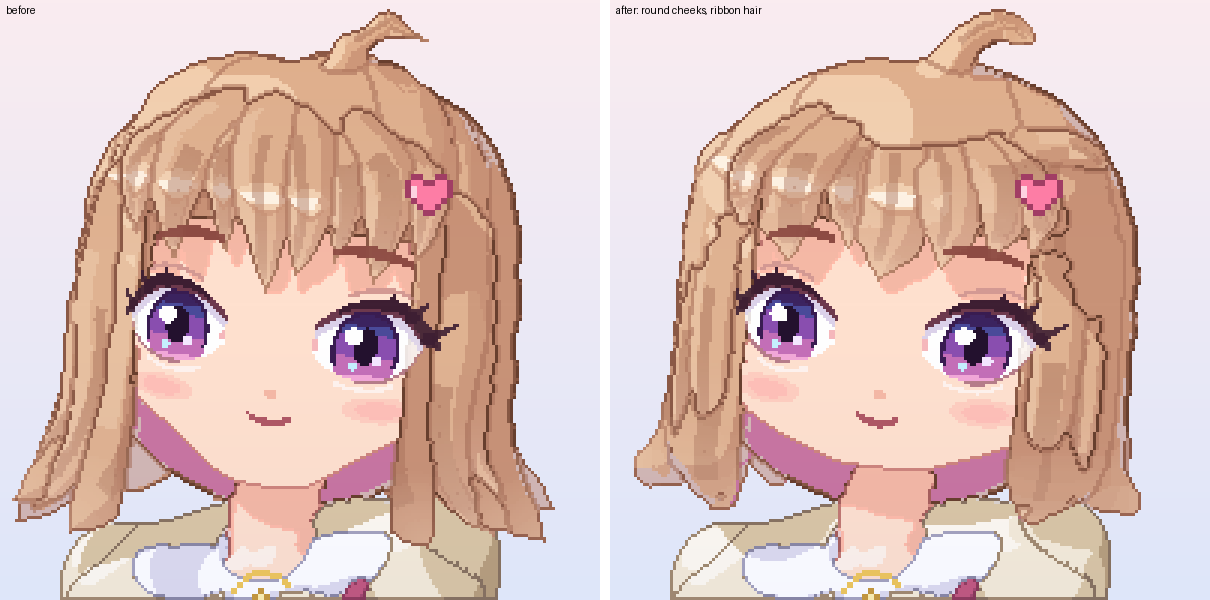
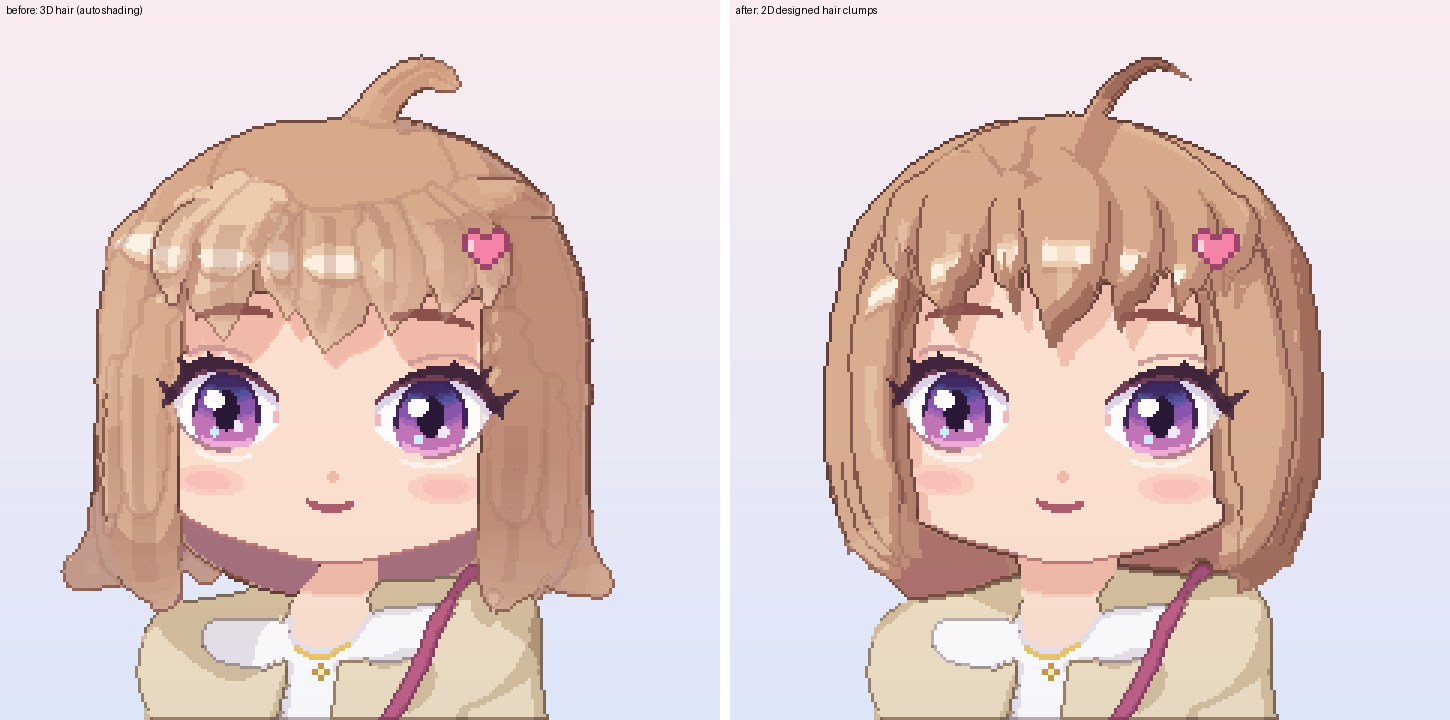
HD: round-4 critique fixes, regenerated outputs, honest assessment in docs
- Narrower bob and taller crown, lighter crown face, ahoge root blended
- Shorter round chin, darker jaw line, hands with 3-step shading and thumb
  lines, no knee blush, smoother legs and matching socks, lower shoe opening
  with a lighter sole, contact shadows under both shoes, no dashed rim light
  on clothes, narrower necklines with a tee rib, skirt side and hem shadows
- Regenerated mio_hd outputs, face close-up, idle GIF and comparisons
- docs/15 15-16: critique score history and remaining work

Claude-Session: https://claude.ai/code/session_015jm7LntmaSVAPPtmN3r4zX

diff --git a/pixel_art_character/character/draw_mio_hd.py b/pixel_art_character/character/draw_mio_hd.py
@@ -154,15 +154,15 @@ def face_prims_hd(P):
     out = [
         E((0, 17.5, -1.0), (13.9, 13.3, 13.3), "cranium"),
         E((0, 10.2, 2.6), (12.6, 7.3, 9.8), "cheek"),
-        E((0, 3.9 + CHIN_UP, 5.5), (3.7, 2.7, 3.0), "chin"),      # 顎先は細めの丸（幅広だと平らな盾形に見えた）
+        E((0, 3.9 + CHIN_UP, 5.5), (3.0, 2.6, 3.0), "chin"),      # 顎先は細めの丸（幅広だと平らな盾形に見えた）
     ]
     for s in (-1, 1):
         out.append(E((s * 6.9, 7.6, 6.0), (4.8 * CHEEK_PUFF, 3.9 * CHEEK_PUFF, 4.4), "cheek_puff"))   # 頬のふくらみ
-        out.append(B.RoundCone(L(s * 9.6, 8.4, 2.8), L(s * 2.6, 3.9 + CHIN_UP, 5.4), 3.4, 3.0, "jaw"))
+        out.append(B.RoundCone(L(s * 9.6, 8.6, 2.8), L(s * 1.8, 3.9 + CHIN_UP, 5.4), 3.4, 2.8, "jaw"))
     return out
 
 
-CHIN_UP = 0.9        # 顎先を上げる量（口から顎までを短く＝幼く）
+CHIN_UP = 1.5        # 顎先を上げる量（口から顎までを短く＝幼く）
 CHEEK_PUFF = 1.0     # 頬のふくらみの大きさ
 
 
@@ -317,13 +317,14 @@ def render_base(bob=0.0):
     B.HEAD_SCALE, B.BODY_SCALE = HD_HEAD_SCALE, HD_BODY_SCALE
     B.HEAD_TILT = math.radians(HD_HEAD_TILT)
     B.HEAD_YAW = math.radians(HD_HEAD_YAW)     # 顔をもう少し正面へ（左右の目の大きさの差が歪みに見えないように）   # 首かしげは控えめに（左右の目の高さの差が「歪み」に見えないように）   # 4.5 頭身（v8 の 5.0 から下げる：docs/15 15-12）
-    B.TEE_NECK, B.CARD_NECK = (4.3, 3.0, 6.5), (5.0, 4.0, 7.5)   # 襟ぐりを狭く：首元の肌が横に広がって見えないように
+    B.TEE_NECK, B.CARD_NECK = (3.9, 2.8, 6.5), (4.4, 4.0, 7.5)   # 襟ぐりを狭く：首元の肌が横に広がって見えないように
     groups, P = B.build_scene(bob)
     legs_src = {"L": B.leg_prims(P["hip_L"], P["knee_L"], P["ankle_L"], -1, "L_"),
                 "R": B.leg_prims(P["hip_R"], P["knee_R"], P["ankle_R"], +1, "R_")}
     for i, g in enumerate(groups):
         if g.name in ("leg_w", "leg_f"):
             g.inflate = LEG_SLIM         # 可愛い系は手足を細く（docs/15）
+            g.k = LEG_K
             g.prims = [p for p in g.prims if "malleolus" not in p.tag]   # くるぶしの出っ張りは靴下からのぞくので外す
         if g.name in ("socks_w", "socks_f"):
             # 靴下も脚に沿わせる（太い筒に見えないように）。くるぶしの膨らみは入れない（風船のように見えた）
@@ -335,7 +336,7 @@ def render_base(bob=0.0):
             cut = lambda Q, d, top=top: np.maximum(d, Q[:, 1] - top)
             lower = [p for p in legs_src[sd] if any(t in p.tag for t in ("tibia", "gastro", "soleus", "tibialis",
                                                                           "achilles"))]
-            ng = B.Group(g.name, g.mat, lower + [ankle_cover], k=g.k, inflate=SOCK_SLIM, cut=cut)
+            ng = B.Group(g.name, g.mat, lower + [ankle_cover], k=LEG_K, inflate=SOCK_SLIM, cut=cut)   # 脚と同じつなぎ目の幅（脚が靴下を突き抜けないように）
             ng.set_xf(np.zeros(3), B.BODY_SCALE, np.zeros(3))
             groups[i] = ng
         if g.name.startswith("sleeve_"):
@@ -356,7 +357,7 @@ def render_base(bob=0.0):
             g.prims = [B.RoundCone(p.a, p.b, NECK_R[0], NECK_R[1], p.tag) if p.tag == "neck" else p for p in g.prims]
         if g.name == "tee":
             # T シャツで肩の上（僧帽筋）と鎖骨も覆う：襟元の左右に肌が「翼」のように見えるのを防ぐ
-            extra = [B.Ellipsoid(p.c, p.r + 0.7, p.R, p.tag) for p in B.torso_prims(bob) if p.tag == "trapezius"]
+            extra = [B.Ellipsoid(p.c, p.r + 0.3, p.R, p.tag) for p in B.torso_prims(bob) if p.tag == "trapezius"]
             # 鎖骨も覆う（鎖骨の棒が T シャツを突き抜けて、襟元の左右に肌が見えていた）
             extra += [B.RoundCone(p.a, p.b, p.r1 + 0.8, p.r2 + 0.8, p.tag) for p in B.neck_prims(bob, P["head"])
                       if p.tag == "clavicle"]
@@ -461,6 +462,8 @@ def render_base(bob=0.0):
     limbs = np.isin(gid, [gi[n] for n in ("leg_w", "leg_f", "arm_L", "arm_R", "hands")])
     lv[limbs] = np.where(lit[limbs] & (lam[limbs] > -0.02), 2, 3)   # 影は光と反対側の細い帯だけ（脚がまだらにならないように）
     lv[limbs & lit & (lam > 0.86)] = 1
+    hands = gid == gi["hands"]                   # 手は指の丸みが読めるよう 3 段（ベタだと四角い塊に見えた）
+    lv[hands] = np.where(lam[hands] > 0.6, 1, np.where(lam[hands] > 0.1, 2, 3))
 
     # 天使の輪
     mh = gid == gi["hair"]
@@ -539,7 +542,9 @@ def render_base(bob=0.0):
     for g in range(len(groups)):
         m = rim & (gid == g)
         # 髪のリムライトは弱く（強いと髪が白っぽく光ってゼリーのように見えた）
-        flat[idx[m]] = mix(ramp(mats[g], 3), RIM, 0.15 if groups[g].name in ("hair", "bangs") else 0.45)
+        # 服・靴・脚のリムライトは点線のノイズ（縫い目）に見えたので描かない
+        if groups[g].name in ("hair", "bangs"):
+            flat[idx[m]] = mix(ramp(mats[g], 3), RIM, 0.15)
 
     vz = np.full(W * H, -1e9)
     vz[idx] = (Ph @ Rv.T)[:, 2]
@@ -549,13 +554,14 @@ def render_base(bob=0.0):
     su_full[idx] = su
     img = outlines(img, gmap, vz, lvmap, strand.reshape(H, W), mats, groups, su_full.reshape(H, W))
     neck_shadow(img, gmap, gi, P, Rv)
+    cloth_finish(img, gmap, gi)
     arm_separation(img, gmap, lvmap, gi, groups)
     finger_lines(img, gmap, groups, gi, Ph, idx, gid)
     return dict(img=img, gmap=gmap, vz=vz, names=names, P=P, Rv=Rv, groups=groups, bob=bob, strand=strand.reshape(H, W))
 
 
 BAG_R = B.rot_z(math.radians(4)) @ B.rot_y(math.radians(-10))
-BAG_C0 = v3(-12.2, 70.4, 8.4)          # v8 より前（z 6.2 → 8.4）：スカートに埋もれないように
+BAG_C0 = v3(-12.4, 70.4, 8.6)          # v8 より前（z 6.2 → 8.4）：スカートに埋もれないように
 
 
 def rebuild_bag_strap(groups, bob):
@@ -580,7 +586,7 @@ def rebuild_bag_strap(groups, bob):
         zprev = z
         sp.append(v3(xy[0], xy[1], z + 0.8))
     # 肩の上を越えて背中側へ：最初の点を肩の頂上へ上げ、少し後ろへ
-    sp.insert(0, v3(12.4, 123.8 + bob, -2.0))
+    sp.insert(0, v3(13.2, 125.4 + bob, -1.4))   # 肩の上を越えて背中へ
     gs = B.Group("strap", MAT["strap"], [B.RoundCone(a, b, 0.8, 0.8, "strap") for a, b in zip(sp, sp[1:])], k=0.5)
     gs.set_xf(np.zeros(3), BS, np.zeros(3))
     groups[isp] = gs
@@ -588,7 +594,7 @@ def rebuild_bag_strap(groups, bob):
 
 # 靴の向き：つま先をこちら寄り・少し内向きに（真横を向くと講評で不自然とされた）
 SHOES_HD = (("shoe_w", v3(-3.0, 0.0, -4.6), v3(1.6, 0.0, 14.6)),
-            ("shoe_f", v3(8.0, 5.0, -5.8), v3(9.6, 0.0, 12.8)))
+            ("shoe_f", v3(8.0, 2.6, -5.8), v3(9.6, 0.0, 12.8)))   # かかとを上げすぎるとねじれて見えた
 
 
 def rebuild_shoes(groups):
@@ -611,7 +617,7 @@ def rebuild_shoes(groups):
 
         def shoe_cut(Q, d, heel=heel, up=up, fwd=fwd):
             rel = Q - heel
-            return np.maximum(d, rel @ up - (5.9 - 0.14 * (rel @ fwd)))   # 足首の口
+            return np.maximum(d, rel @ up - (4.8 - 0.12 * (rel @ fwd)))   # 履き口を低く：靴下の足首が見える
 
         g = B.Group(name, MAT["shoes"], prims, k=1.8, cut=shoe_cut)
         g.set_xf(np.zeros(3), B.BODY_SCALE, np.zeros(3))
@@ -636,6 +642,33 @@ def neck_shadow(img, gmap, gi, P, Rv):
     # 影の下の縁に中間色を 1 段
     edge = neck & ~near & shift(neck & near, 0, -1, False)
     img[edge, :3] = np.array(mix(sk["s1"], sk["base"], 0.5)[:3])
+
+
+def cloth_finish(img, gmap, gi):
+    """服の仕上げ（2D）：スカートの両脇を暗く（円筒の陰影）、カーディガンの裾がスカートに落とす影、
+    T シャツの首まわりのリブ線、靴下の口のすぐ上の肌の影。"""
+    def near(mask, dxs, dys):
+        out = np.zeros_like(mask)
+        for dx in dxs:
+            for dy in dys:
+                out |= shift(mask, dx, dy, False)
+        return out
+    mul = lambda m, k: img.__setitem__((m, slice(0, 3)), (img[m, :3] * k).astype(np.uint8))
+    if "skirt" in gi:
+        sk = gmap == gi["skirt"]
+        r = int(3 * RES)
+        edge = sk & (near(~sk & (gmap < 0), range(-r, r + 1), [0]))
+        mul(edge, 0.86)
+        if "cardigan" in gi:
+            under = sk & near(gmap == gi["cardigan"], [0], range(-int(2.5 * RES), 0))
+            mul(under, 0.8)
+    if "tee" in gi and "torso_skin" in gi:
+        rib = (gmap == gi["tee"]) & near(gmap == gi["torso_skin"], [-1, 0, 1], [-1, -2])
+        img[rib, :3] = np.array(MAT["tee"]["s1"][:3])
+    for leg, sock in (("leg_w", "socks_w"), ("leg_f", "socks_f")):
+        if leg in gi and sock in gi:
+            above = (gmap == gi[leg]) & near(gmap == gi[sock], [0], range(1, RES + 1))
+            img[above, :3] = np.array(MAT["skin"]["s1"][:3])
 
 
 def arm_separation(img, gmap, lvmap, gi, groups):
@@ -670,7 +703,9 @@ def finger_lines(img, gmap, groups, gi, Ph, idx, gid):
     for dx, dy in ((1, 0), (0, 1)):
         npid = shift(pid, dx, dy, -1)
         e = (pid >= 0) & (npid >= 0) & (pid != npid)
-        e &= is_f[np.clip(pid, 0, None)] & is_f[np.clip(npid, 0, None)]   # 指と指の間だけ（手のひらとの境目に線を引くと四角が重なって見えた）
+        is_t = np.array([t == "thumb" for t in tags])
+        e &= (is_f[np.clip(pid, 0, None)] & is_f[np.clip(npid, 0, None)]) | is_t[np.clip(pid, 0, None)] \
+            | is_t[np.clip(npid, 0, None)]   # 指と指の間、親指の縁（親指を独立させる）   # 指と指の間だけ（手のひらとの境目に線を引くと四角が重なって見えた）
         out[e] = line
     img[...] = out
 
@@ -739,7 +774,7 @@ def texture_hd(img, idx, Ph, gid, names, lv, P, bob=0.0):
     for k, heel, toe in SHOES_HD:
         if k in gi:
             m = gid == gi[k]
-            paint(m & (Ph[:, 1] < 1.5), 1, "shoes")                       # 靴底
+            paint(m & (Ph[:, 1] < 1.1), -1, "shoes")                      # 靴底：明るめの茶の帯
             fwd = nrm(toe - heel)
             zz = (Ph - heel) @ fwd / np.linalg.norm(toe - heel)          # かかと 0 〜 つま先 1
             paint(m & (Ph[:, 1] > 2.9) & (np.abs(zz - 0.58) < 0.022), -1, "shoes")  # 甲の帯（サドル）：明るい茶の線 1 本
@@ -772,7 +807,9 @@ def grade(img, gmap):
 
 GRADMAP = 0.12              # グラデーションマップの強さ
 FACE_SHADOW_Y = 16.0        # 顔に落ち影を入れるのはこの高さ（頭の座標）より上＝額だけ
-SOCK_SLIM = -0.35
+KNEE_BLUSH = False          # 膝の赤み（シールのように見えると講評されたので描かない）
+LEG_K = 4.6                 # 脚の筋肉のつなぎ目の幅（輪郭のデコボコを消す）
+SOCK_SLIM = -0.3
 SOCK_BELOW_KNEE = 4.5       # 靴下の上端：膝の中心からこれだけ下
 SOCK_TOP = {}
 NECK_SHADOW = 2.4           # 顎の下の影の深さ（単位：v8 の 1px）
@@ -888,7 +925,7 @@ def outlines(img, gmap, vz, lvmap, strand, mats, groups, su_map=None):
                 dark = mix(m["line"], m["s2"], 0.35 + 0.5 * a)
                 soft = mix(m["line"], m["s1"], 0.5 + 0.4 * a)
             if gmap[y, x] == face_id:      # 顔の輪郭は細く柔らかい色に（濃い輪郭は頬をこけて見せる）
-                dark, soft = mix(m["line"], m["s2"], 0.3), mix(m["line"], m["s2"], 0.6)
+                dark, soft = mix(m["line"], m["s2"], 0.18), mix(m["line"], m["s2"], 0.5)
             if edge_empty[y, x]:
                 if gmap[y, x] in hair_ids and (su_map is None or su_map[y, x] <= 0.82):
                     out[y, x] = mix(m["line"], m["s2"], 0.25) if lit else dark   # 髪の外形ははっきり（背景に溶けない）
@@ -1191,7 +1228,7 @@ def draw_accessories(img, gmap, names, P, Rv, bob):
     stamp(img, gmap, x, y, ["gg", "gG"], {"g": ACC["gold"], "G": hx("#c89a40")}, ids("bag", "strap"))
     # 膝・肘の血色（肌より少し赤い小さな楕円）
     yy, xx = np.mgrid[0:H, 0:W]
-    for side, leg in (("L", "leg_w"), ("R", "leg_f")):
+    for side, leg in (() if not KNEE_BLUSH else (("L", "leg_w"), ("R", "leg_f"))):
         x, y, _ = pj(P["knee_" + side] + v3(0, 0.8, 3.4))
         m = ((xx + 0.5 - x) / (1.7 * RES)) ** 2 + ((yy + 0.5 - y) / (1.1 * RES)) ** 2 < 1   # 小さく淡く
         m &= np.isin(gmap, ids(leg))
@@ -1215,9 +1252,12 @@ def composite(sprite, scale, P=None, Rv=None):
             x, y, z = project(B.body_dst(v3(a[0], 0, a[2] + 5)), Rv)
             m = ((xx + 0.5 - x) / (rx * RES)) ** 2 + ((yy + 0.5 - g) / (ry * RES)) ** 2 <= 1
             base[m, :3] = (base[m, :3] * k).astype(np.uint8)
-            # 接地影：靴の真下だけ、もう 1 段濃く細い影（立っている重さ。講評より）
-            m2 = ((xx + 0.5 - x) / (rx * 0.75 * RES)) ** 2 + ((yy + 0.5 - g - 0.2 * RES) / (0.55 * RES)) ** 2 <= 1
-            base[m2, :3] = (base[m2, :3] * (0.82 if name == "ankle_L" else 0.9)).astype(np.uint8)
+        # 接地影：両方の靴の真下に、靴の長さだけ濃く細い影（立っている重さ。講評より）
+        for name, heel, toe in SHOES_HD:
+            mid = (heel + toe) / 2
+            x, y, z = project(B.body_dst(v3(mid[0], 0, mid[2])), Rv)
+            m2 = ((xx + 0.5 - x) / (6.0 * RES)) ** 2 + ((yy + 0.5 - g - 0.2 * RES) / (0.6 * RES)) ** 2 <= 1
+            base[m2, :3] = (base[m2, :3] * 0.8).astype(np.uint8)
     a = sprite[..., 3:4] / 255.0
     base[..., :3] = (sprite[..., :3] * a + base[..., :3] * (1 - a)).astype(np.uint8)
     return Image.fromarray(base, "RGBA").resize((w * scale, h * scale), Image.NEAREST)
@@ -1238,8 +1278,8 @@ def face_closeup(base, scale):
     """顔の拡大（開き・半目・閉じ）を横に並べる。"""
     P, Rv = base["P"], base["Rv"]
     Rh = B.head_frame(P)
-    cx, cy, _ = project(B.head_dst(P["head"] + Rh @ v3(0, 14, 6), P), Rv)
-    r = int(21 * RES)
+    cx, cy, _ = project(B.head_dst(P["head"] + Rh @ v3(0, 16, 6), P), Rv)
+    r = int(24 * RES)
     tiles = []
     for eyes in ("open", "half", "closed", "happy"):
         img, *_ = finish(base, eyes)

diff --git a/pixel_art_character/character/hair2d.py b/pixel_art_character/character/hair2d.py
@@ -16,7 +16,8 @@ import math
 import numpy as np
 from PIL import Image, ImageDraw
 
-CAP_RX, CAP_RY = 16.5, 15.0             # 髪全体の外形（頭頂 ≒ 32.8）
+CAP_RX, CAP_RY = 15.6, 15.8             # 髪全体の外形（頭頂 ≒ 32.8）
+BOB_NARROW = 0.93                       # 横の膨らみを細くする倍率
 SHELL_C = np.array([0.0, 17.5, -1.2])   # 髪の殻（頭を包む球）の中心
 SHELL_R = 16.8
 
@@ -154,8 +155,13 @@ def draw(img, gmap, names, P, Rv, D):
     face0 = gmap == fid
 
     clumps = design(D)
+    # 頭が肩より大きく見えないよう、横の膨らみを少し細く（講評：キノコ・ヘルメット型）
+    clumps = [(k, l, [(x * BOB_NARROW, y) for x, y in pts] if (k.startswith("bob") or k == "base" or k == "inner")
+               and pts != "fill" else pts, *w) if pts != "fill" else
+              (k, l, pts, [(x * BOB_NARROW, y) if (k == "base" and y < 17.8) or k == "inner" else (x, y)
+                           for x, y in w[0]]) for (k, l, pts, *w) in clumps]
     cap_mask = pt.mask([(CAP_RX * math.cos(a), 17.8 + CAP_RY * math.sin(a)) for a in np.linspace(0, 2 * math.pi, 48)])
-    bob_clip = pt.mask([(19.5 * math.cos(a), 15.5 + 17.3 * math.sin(a)) for a in np.linspace(0, 2 * math.pi, 64)]) \
+    bob_clip = pt.mask([(18.6 * math.cos(a), 15.5 + 18.1 * math.sin(a)) for a in np.linspace(0, 2 * math.pi, 64)]) \
         | pt.mask([(-30.0, 15.5), (30.0, 15.5), (30.0, -15.0), (-30.0, -15.0)])   # 上半分だけ丸く切る
     top = np.full((H, W), -1)          # 一番手前の束の番号
     masks, cores, tips, kinds = [], [], [], []
@@ -208,6 +214,11 @@ def draw(img, gmap, names, P, Rv, D):
     out[deep] = col["s2"]
     inner = hair & (np.array(kinds, dtype=object)[np.clip(top, 0, None)] == "inner")
     out[inner] = inner_c
+    # 頭頂の明るい面：球の上の面は光を受けて明るい（3 段の明暗で球に見せる：講評より）
+    crown_lit = pt.mask([(x, 24.4 - 0.022 * x * x + 0.9) for x in np.linspace(-15, 15, 31)] +
+                        [(CAP_RX * math.cos(a), 17.8 + CAP_RY * math.sin(a)) for a in np.linspace(0.15, math.pi - 0.15, 25)][::-1])
+    cl = crown_lit & hair & ~shadow & ~sh(hair, 3 * RES, -0 * RES, False)
+    out[cl] = out[cl] * 0.6 + col["lt"] * 0.4
     # 4. ツヤ（天使の輪）：頭の丸みに沿った帯 × 束の芯、光の側だけ
     ring_poly = [(x, 24.4 - 0.022 * x * x + 0.9) for x in np.linspace(-15, 9, 30)] + \
                 [(x, 24.4 - 0.022 * x * x - 0.9) for x in np.linspace(9, -15, 30)]
@@ -240,7 +251,7 @@ def draw(img, gmap, names, P, Rv, D):
     outer = np.zeros_like(hair)
     innerl = np.zeros_like(hair)
     crown_ids = [i for i, c in enumerate(clumps) if c[0] == "crown"]
-    bang_ids = [i for i, c in enumerate(clumps) if c[0] == "bang"]
+    bang_ids = [i for i, c in enumerate(clumps) if c[0] in ("bang", "ahoge")]
     top_region = pt.mask([(-20.0, 26.8), (20.0, 26.8), (20.0, 40.0), (-20.0, 40.0)])
     bob_ids = [i for i, c in enumerate(clumps) if c[0].startswith("bob")]
     upper7 = pt.mask([(-26.0, 7.0), (26.0, 7.0), (26.0, 40.0), (-26.0, 40.0)])

diff --git a/pixel_art_character/character/README.md b/pixel_art_character/character/README.md
@@ -30,7 +30,7 @@
 | `output/mio_hd_face_x3.png` | v9 の顔（開き・半目・閉じ・にっこり） |
 | `output/mio_hd_idle_x2.gif` | v9 のアイドルアニメ（呼吸＋まばたき） |
 | `output/compare_v8_hd.png` | v8・v9（192×352）・v9（384×704）の比較 |
-| `output/face_hair_hd_before_after.png` | v9 の顔の輪郭と髪型の作り直し（前・後） |
+| `output/face_hair_hd_before_after.png` | 髪の描き方の比較（3D の自動計算 → 2D で設計した束） |
 | `output/face_brows_v8.png` | 眉の修正：前髪の線に埋もれていた眉を、肌の上に見える位置と色へ |
 | `output/pose_skeleton_x5.png` | ポーズの検討図：頭の高さの目盛り、骨格、重心線（緑）、肩と骨盤の傾き（橙） |
 
@@ -307,3 +307,9 @@ v7 は一度に多くを変えすぎて悪化したため、**v6 を基準に戻
 ![顔の輪郭と髪型](output/face_hair_hd_before_after.png)
 
 顔は口から顎までを短くして頬にふくらみを足し、髪は平たいリボン状の毛束で作り直しました（後ろ髪は内巻き中心のボブ、横髪は頬に沿って顔を包む、前髪は大・中・小の 7 束）。docs/15 15-11。
+
+### 4.5 頭身、2D で設計した髪、講評による修正
+
+![髪の描き方の比較](output/face_hair_hd_before_after.png)
+
+頭身を 4.5 に下げ、髪をプロと同じ手順（シルエット → 大きな束 → 影の形 → ツヤ → 線）で 2D の束として設計して描く方式に変えました（`hair2d.py`）。そのあと、描いた絵をプロの目線で講評しては直す、を 4 回繰り返しました（点数 52 → 64 → 60 → 62）。顔は「プロの SD キャラに近い」と評価された一方、首から下は「パーツを組み立てた人形」に見えるという指摘が残っています。次の課題は、手・脚・腕・靴・スカートも髪と同じく 2D で形を設計することです（docs/15 15-13〜15-16）。
